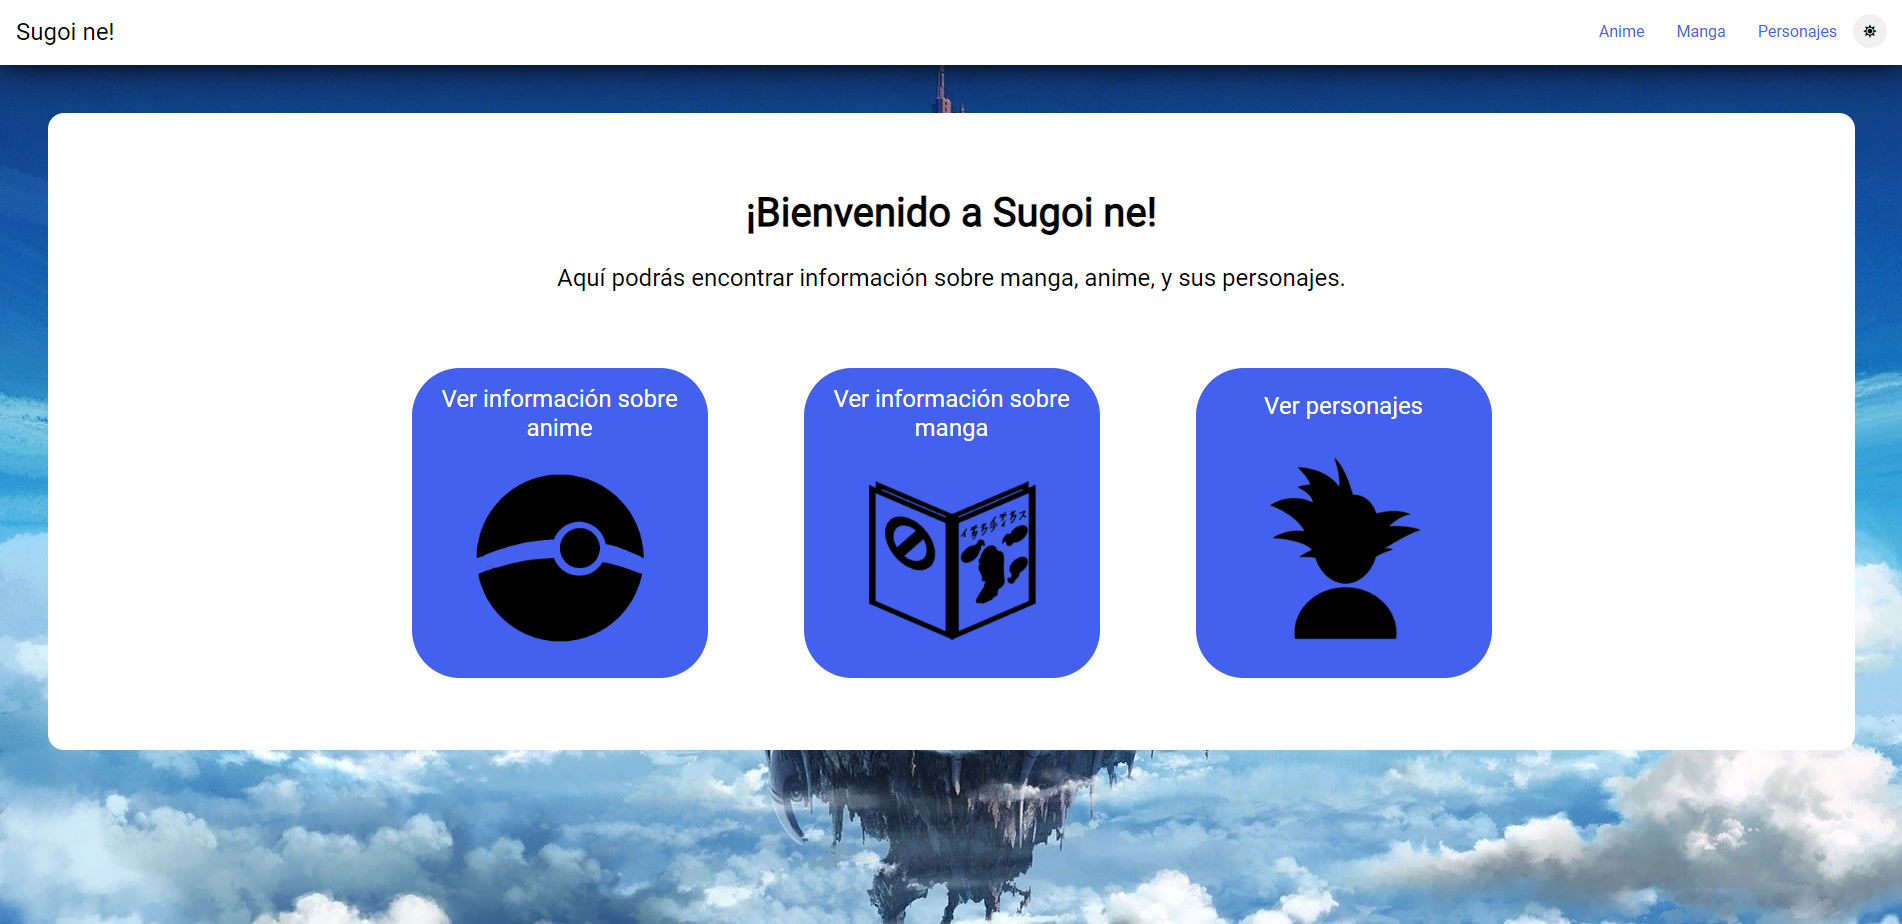
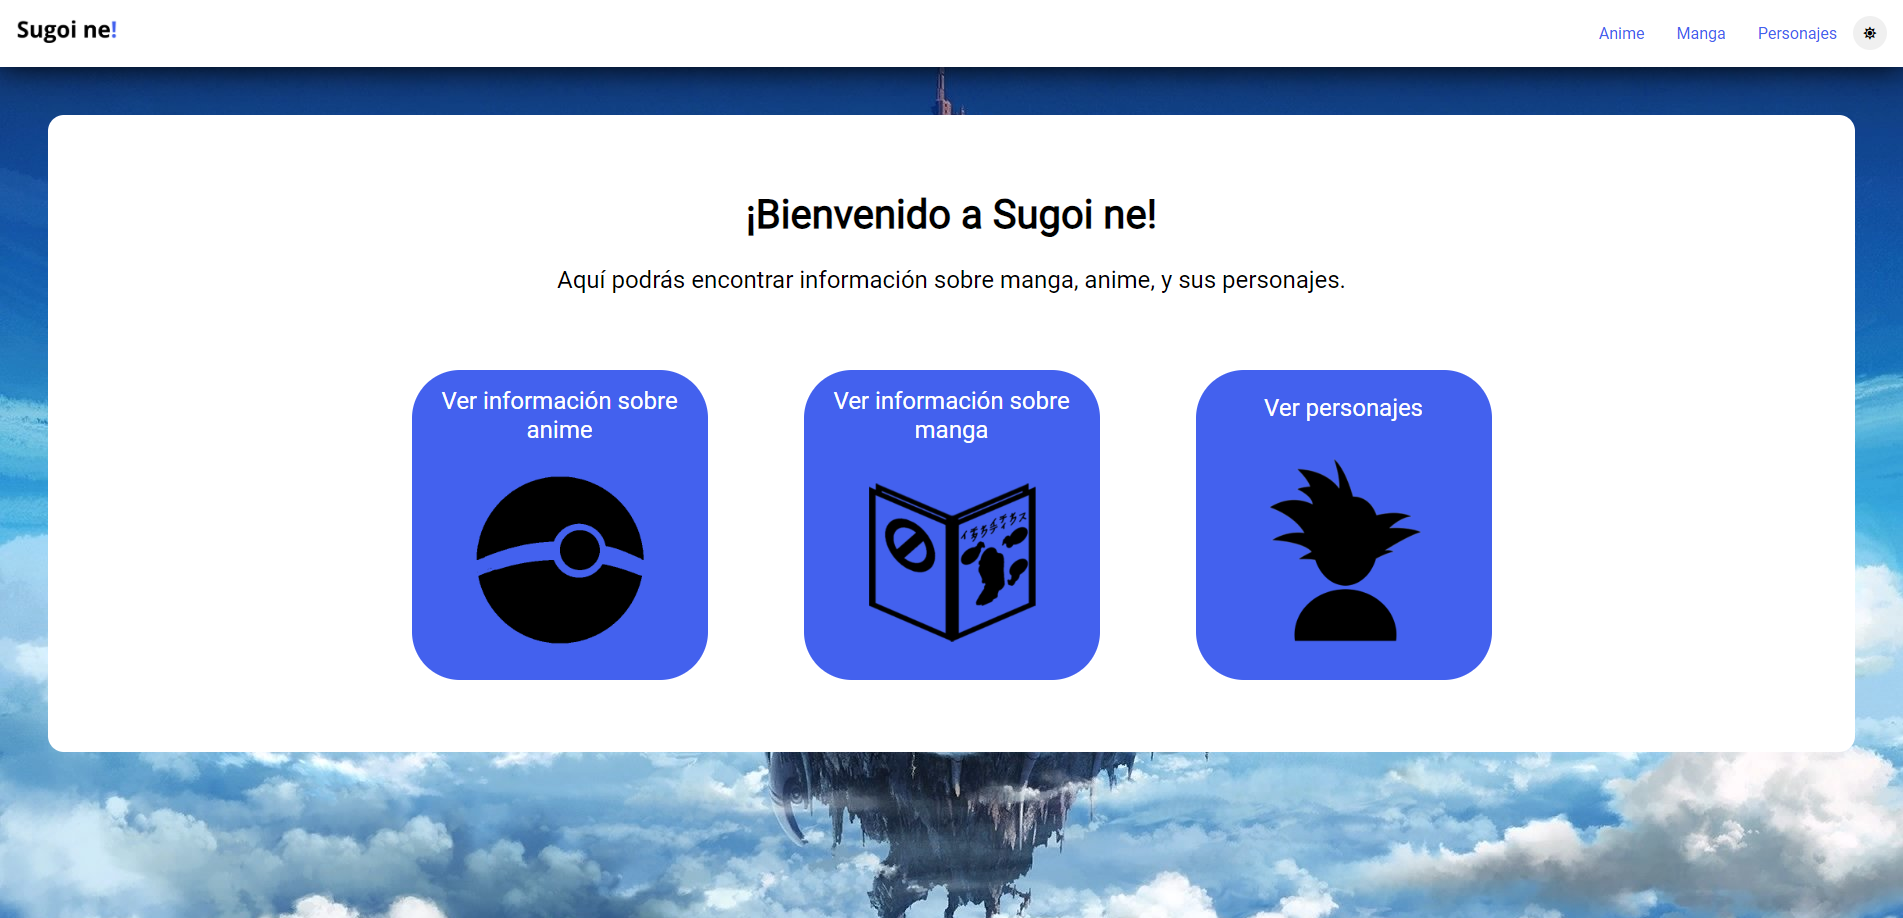
Update missing image
Update sugoi ne image

Add new experiences

diff --git a/index.html b/index.html
@@ -157,6 +157,10 @@
                   <div class="info-title" id="experiencia">
                     <h4 class="title" id="info-experience-title">Experiencia</h4>
                     <ul>
+                      <li><b>Programa Limpieza App</b></li>
+                      <p id="info-experience-programa-limpieza">App en Android desarrollada y diseñada a medida con Kotlin que crea programas de limpieza para un periodo de tiempo determinado y asigna los días de limpieza a personas dadas en una lista.</p>
+                      <li><b>Mapa Digital App</b></li>
+                      <p id="info-experience-mapa-digital">App en Android desarrollada y diseñada a medida con Kotlin que muestra un mapa con una localidad y sus manzanas para administrar manzanas visitadas, y una API con Node que ayuda a que todos los usuarios de la app cuenten con la misma información actualizada.</p>
                       <li><b>CadizSpa</b></li>
                       <p id="info-experience-cadizspa">Proyecto freelance donde se crean funcionalidades y se adapta una plantilla a medida.</p>
                       <li><b>CettLab</b></li>
